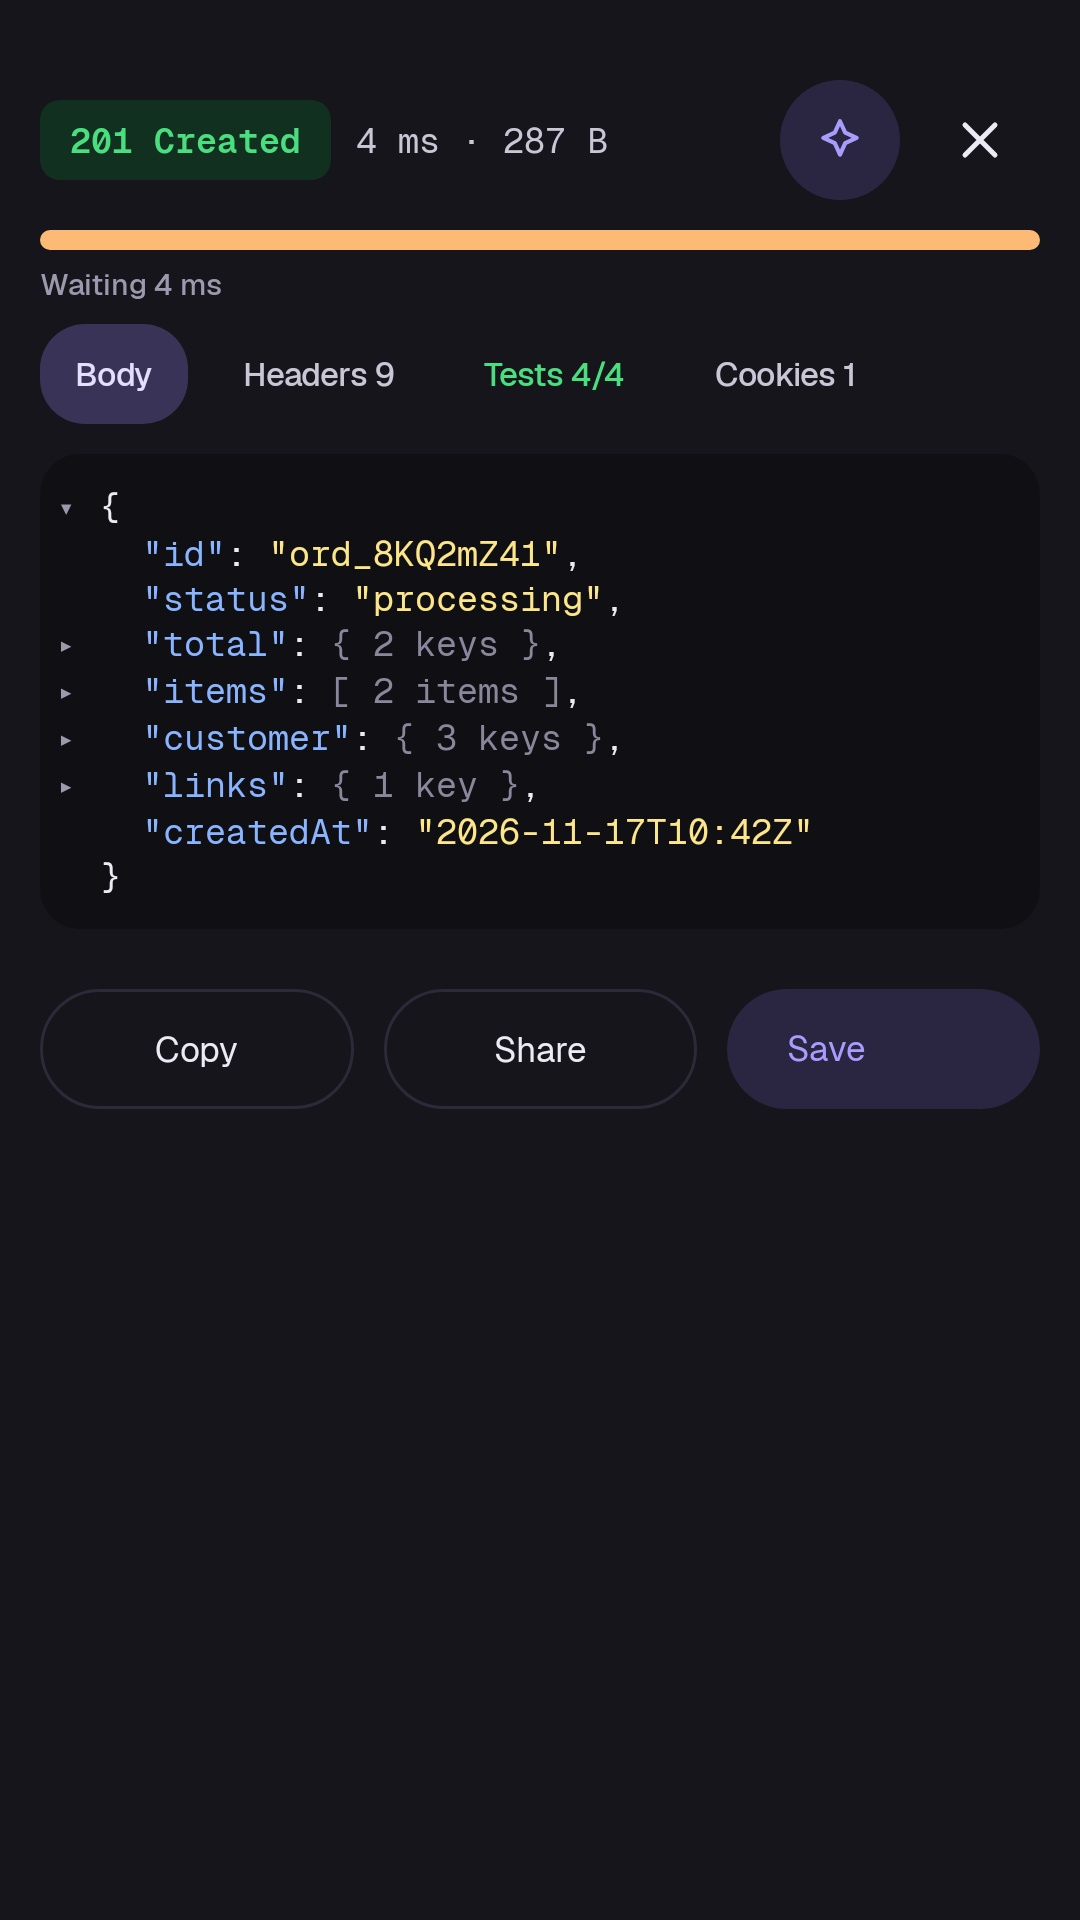
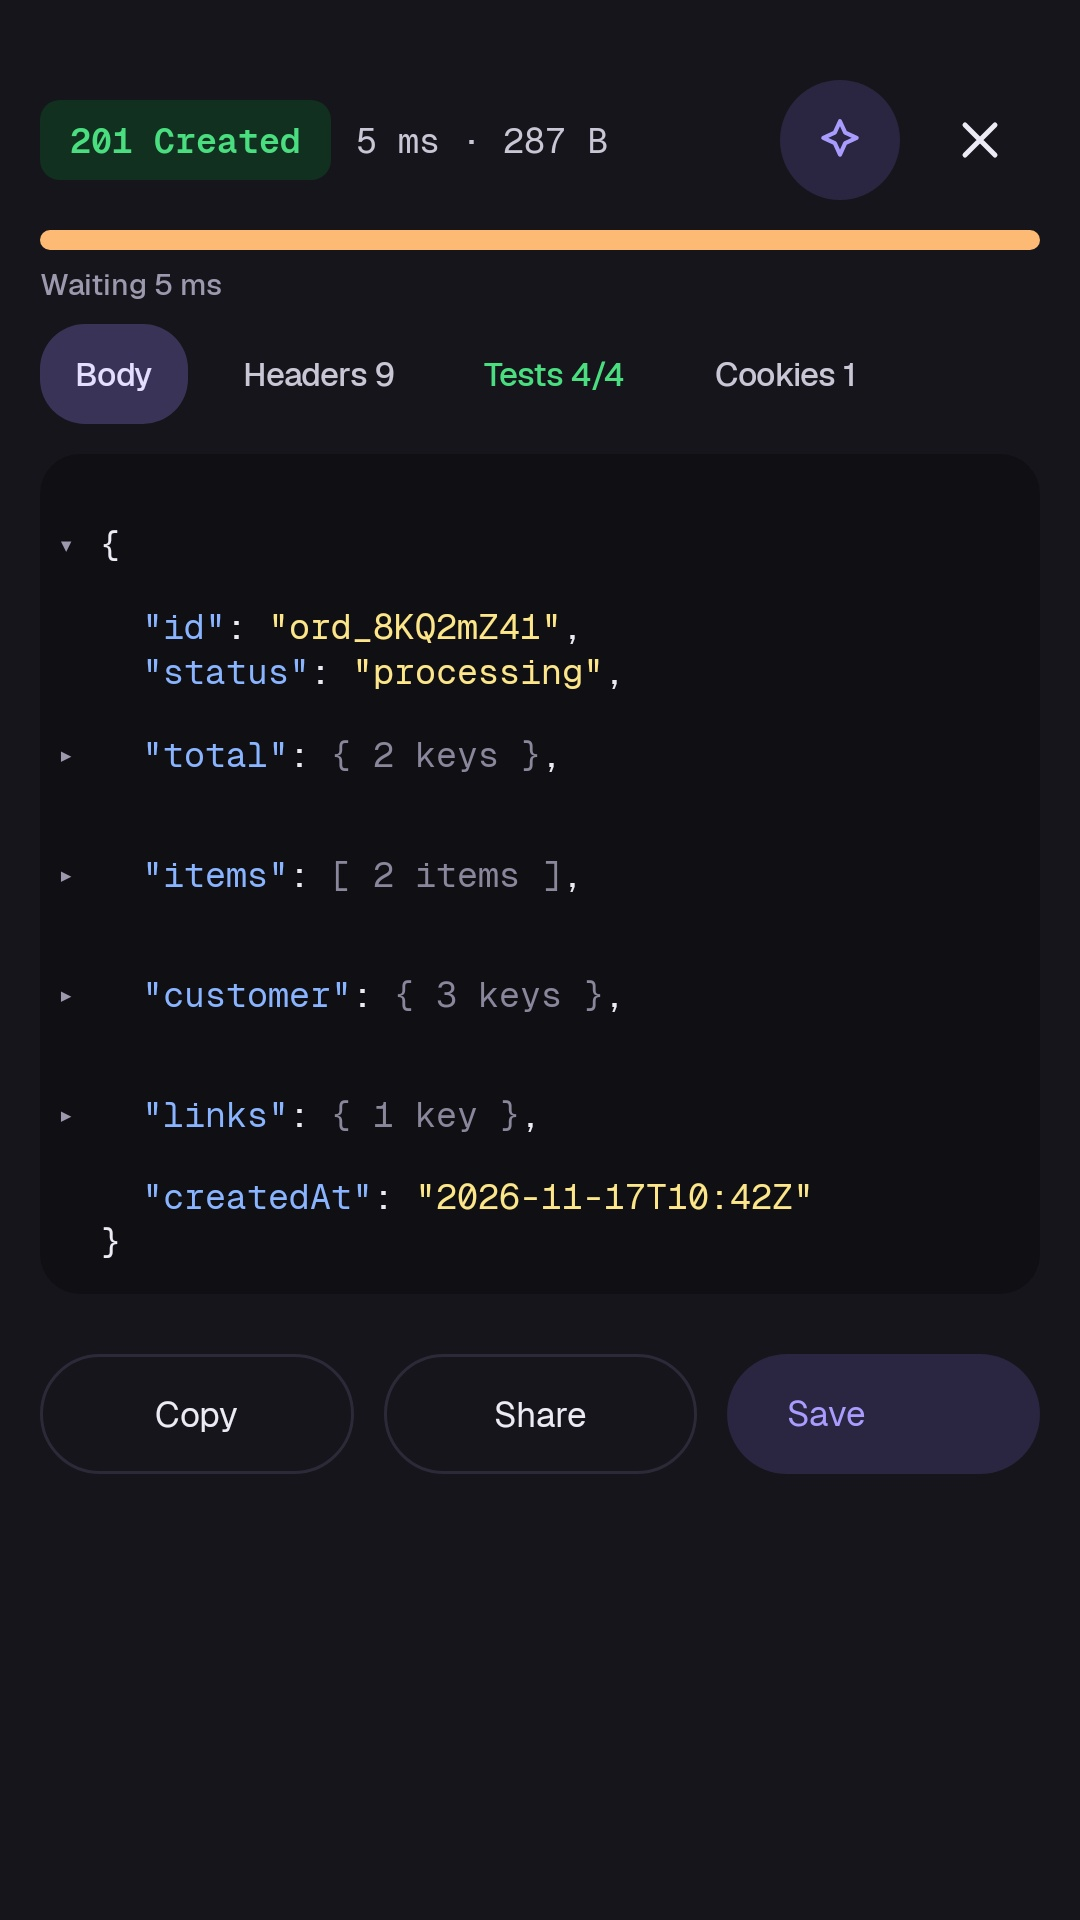
android: JSON fold lines named for screen readers with 48 dp targets; API 37 UI tests on the test-device image

diff --git a/android/app/src/main/kotlin/tech/rws8/hitop/ui/ResponseSheet.kt b/android/app/src/main/kotlin/tech/rws8/hitop/ui/ResponseSheet.kt
@@ -48,6 +48,7 @@ import androidx.compose.ui.text.buildAnnotatedString
 import androidx.compose.ui.text.withStyle
 import androidx.compose.ui.text.SpanStyle
 import androidx.compose.ui.unit.dp
+import androidx.compose.ui.semantics.clearAndSetSemantics
 import kotlinx.serialization.json.JsonArray
 import kotlinx.serialization.json.JsonPrimitive
 import kotlinx.serialization.json.buildJsonObject
@@ -199,12 +200,21 @@ private fun BodyView(res: SendResult) {
     LazyColumn(Modifier.fillMaxWidth().clip(RoundedCornerShape(16.dp)).background(Hitop.codeDeep).padding(vertical = 12.dp).testTag("body-json")) {
         items(lines) { l ->
             val foldable = l.path != null && (l.kind == JsonOutline.Kind.OPEN || l.kind == JsonOutline.Kind.SUMMARY)
+            // A foldable line is one control a screen reader names ("total, 2 keys, folded"), with a
+            // 48 dp touch target; the arrow glyph itself is hidden from it. Other lines stay compact.
+            val name = (l.key ?: "item") + ", " + l.text.trim() + if (l.folded) ", folded" else ", open"
             Row(
                 Modifier.fillMaxWidth()
-                    .then(if (foldable) Modifier.clickable(onClickLabel = if (l.folded) "Unfold" else "Fold") { folded = if (l.folded) folded - l.path!! else folded + l.path!! } else Modifier)
+                    .then(
+                        if (foldable) Modifier.heightIn(min = 48.dp)
+                            .clickable(onClickLabel = if (l.folded) "Unfold" else "Fold") { folded = if (l.folded) folded - l.path!! else folded + l.path!! }
+                            .semantics(mergeDescendants = true) { contentDescription = name }
+                        else Modifier
+                    )
                     .padding(start = 8.dp, end = 12.dp),
+                verticalAlignment = Alignment.CenterVertically,
             ) {
-                Text(if (foldable) (if (l.folded) "▸" else "▾") else " ", Modifier.width(16.dp), style = HitopType.mono, color = Hitop.textMuted)
+                Text(if (foldable) (if (l.folded) "▸" else "▾") else " ", Modifier.width(16.dp).clearAndSetSemantics {}, style = HitopType.mono, color = Hitop.textMuted)
                 Text(buildAnnotatedString {
                     append("  ".repeat(l.depth))
                     l.key?.let { withStyle(SpanStyle(color = Hitop.jsonKey)) { append("\"$it\"") }; append(": ") }

diff --git a/android/DECISIONS.md b/android/DECISIONS.md
@@ -41,3 +41,5 @@ Choices `android/GOAL.md` doesn't cover, each with its reason. The owner may ove
 | 2026-11-23 | Data safety declares ML Kit's diagnostics (device model, OS, app version, timings, error codes; a per-installation id) as collected, required, for analytics, not shared; the privacy policy says so. The release check fails if the app's native code holds the usage ping endpoint. | Google's ML Kit disclosure lists them for `genai-prompt`, and the app asks ML Kit for the model at every start. HITOP's own code sends nothing of the kind. |
 | 2026-11-23 | Release version codes: minutes since 2026-01-01 in both release workflows (an input can override it in android-play.yml). | Separate run-number counters would give a tag build and a Play upload the same code; one clock always increases. |
 | 2026-11-23 | Release workflows: the upload keystore and its passwords exist only inside the build step (decoded to the runner's temp directory, removed on exit); the Play upload action gets only the AAB and the service account file. | Least exposure for the upload key; the upload action is a third-party action (pinned by commit). |
+| 2026-11-23 | API 37 UI tests run on the `aosp_atd` (test device) 37.0 image. | The AOSP 37.0 image's system_server aborted in task snapshots (a gfxstream assertion with every host renderer); the Google APIs 37.0 and 37.2 (16 KB) images kept the user locked so apps couldn't write files. The test-device image runs every test; API 31 stays on Google APIs. |
+| 2026-11-23 | A JSON response's foldable lines are 48 dp tall controls named for screen readers ("total, 2 keys, folded"); other lines stay compact. | Accessibility checks on the device flagged 19 dp touch targets and an unnamed arrow. |
